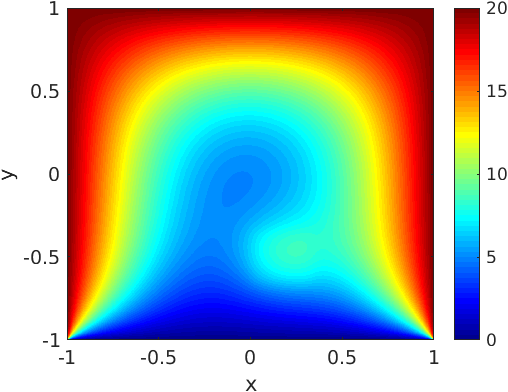
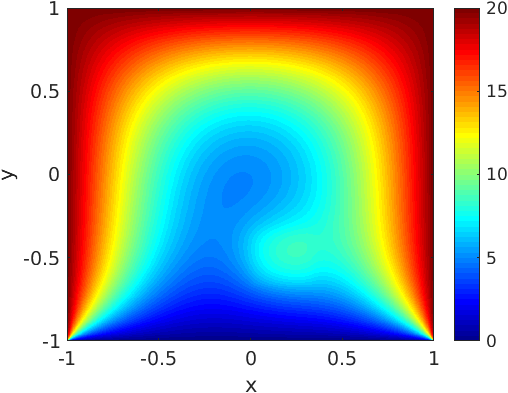
Added room temp visualization of different resolution

diff --git a/assignment2/1_jacobi/plot_room.m b/assignment2/1_jacobi/plot_room.m
@@ -1,4 +1,4 @@
-filename = 'results.txt';
+filename = 'results1024.txt';
 Z = importdata(filename);
 [M,N] = size(Z);
 
@@ -11,4 +11,4 @@ colorbar
 colormap('jet')
 set(gca,'fontsize',14);
 set(gcf, 'Color', 'w');
-export_fig 'room.png'
+export_fig 'room1024.png'
